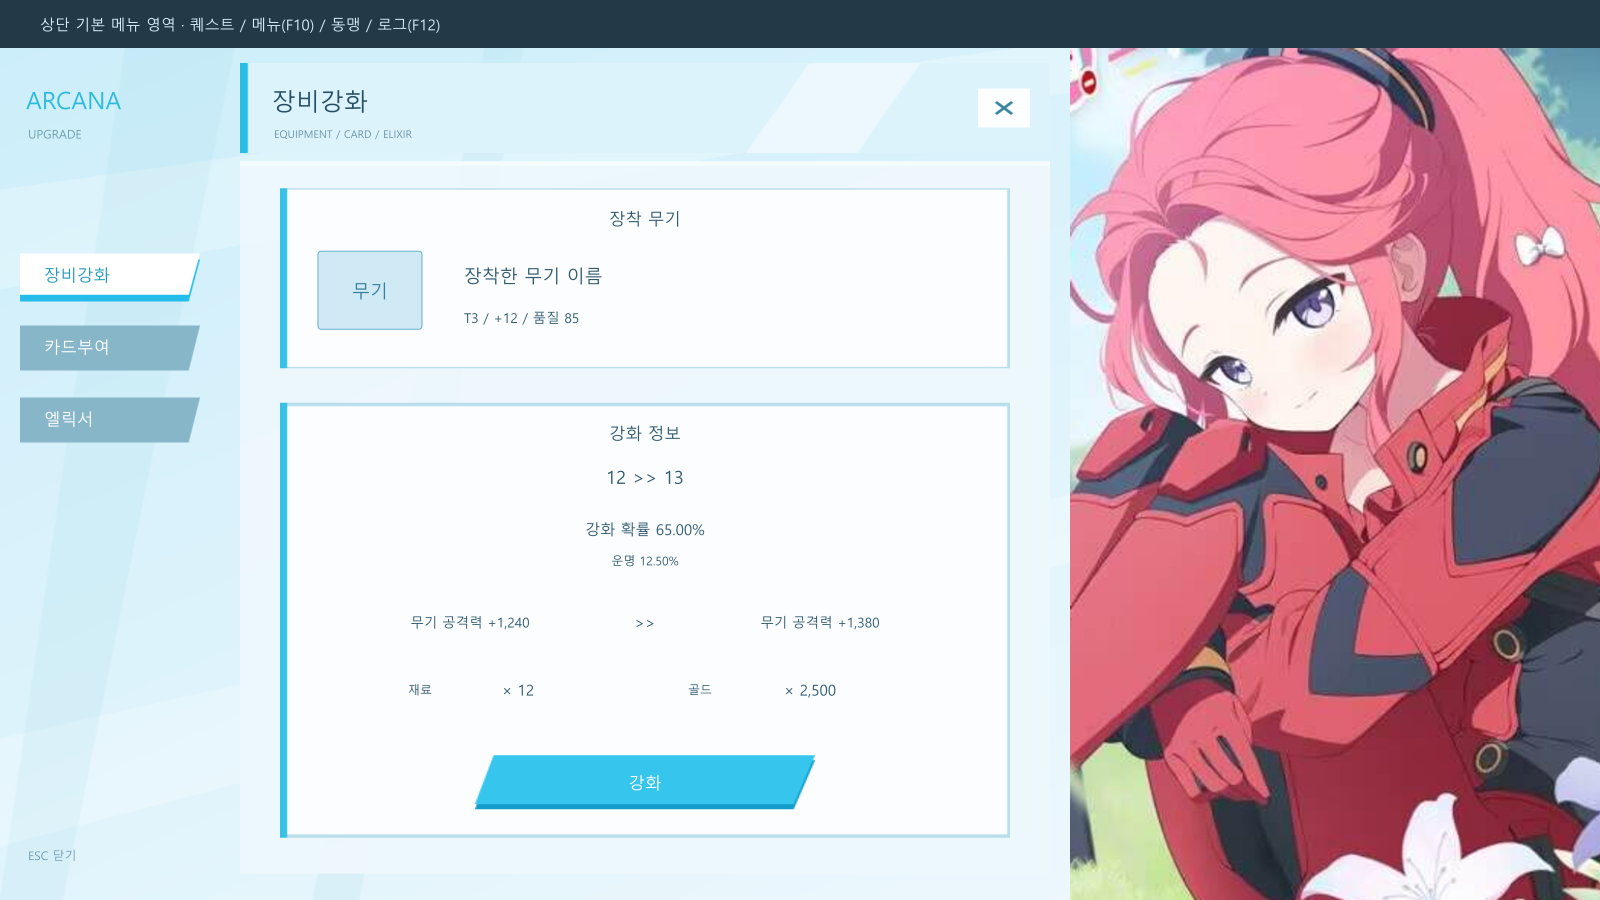
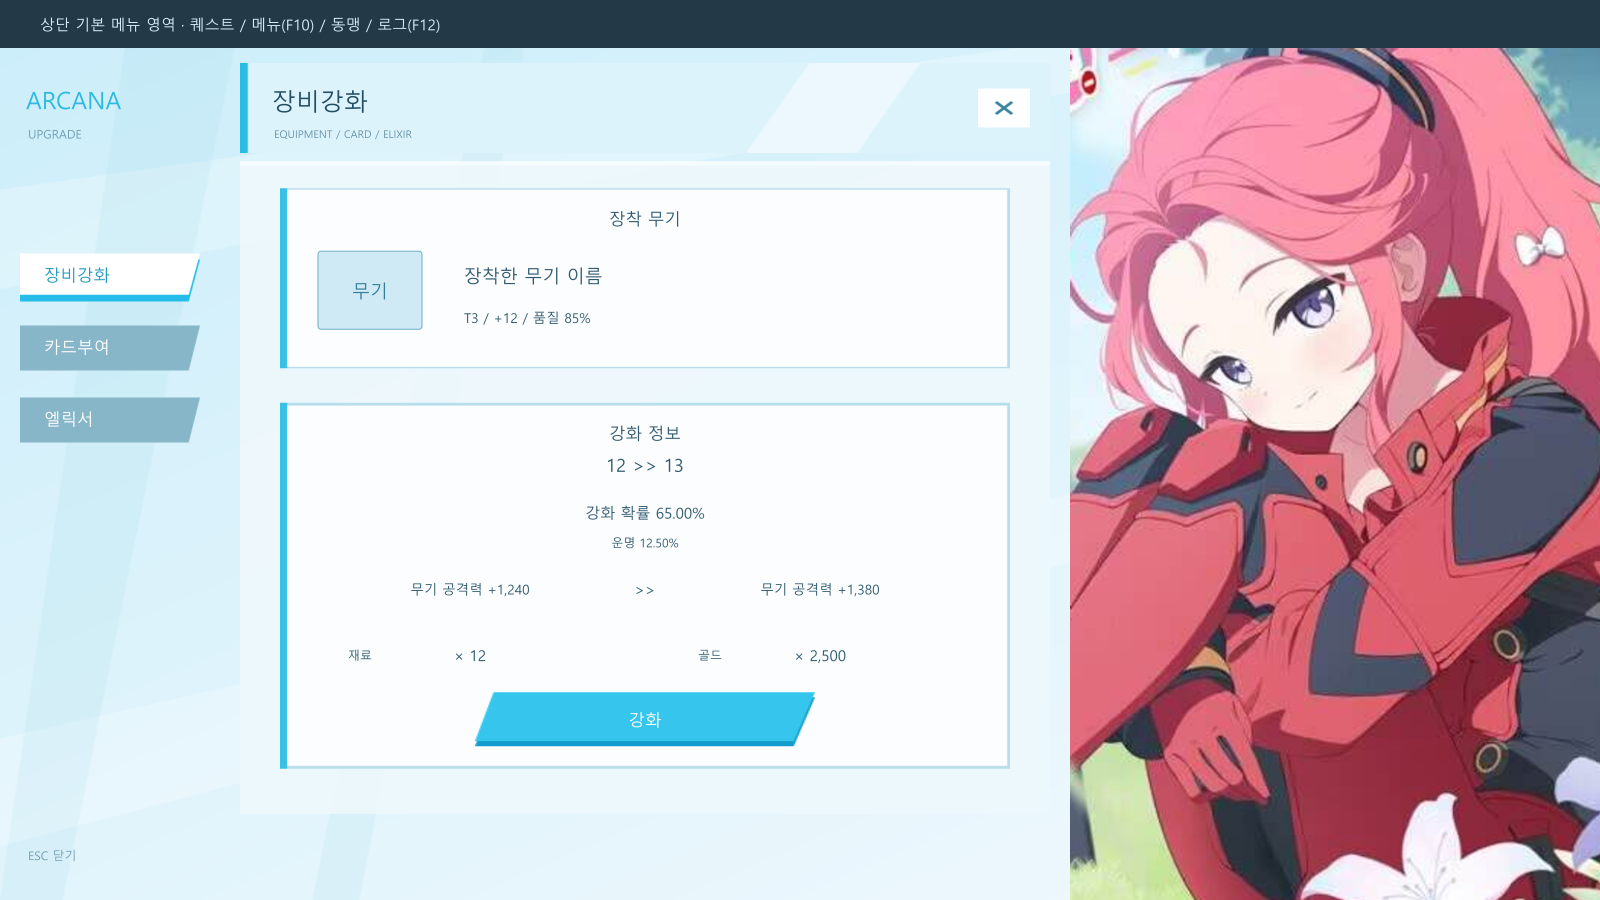
강화 계승 정보와 재료 안내 및 중앙 간격 개선

diff --git a/md/upgrade-ui.md b/md/upgrade-ui.md
@@ -8,6 +8,18 @@
 
 미리보기의 무기·재료 표시는 설명용이며 수치는 예시입니다. 실제 Warcraft III 실행 화면이 아닙니다. 게임에서는 기존 아이템 아이콘과 실시간 수치를 사용합니다.
 
+## 장비 정보와 간격 개선
+
+계승 전후 아이콘 아래에 현재/계승 후, 아이템 이름, 티어와 강화 단계를 표시합니다. 이름과 티어는 기존 계승 대상 아이템에서 읽으며 계승 후 강화 단계는 기존 처리와 같은 +0입니다. 아이템 이름의 등급 색상 뒤에는 짙은 글자색을 다시 적용해 티어가 흰 배경에 묻히지 않도록 했습니다.
+
+무료 계승에서는 빈 재료 아이콘과 x 0 대신 `재료 소모 없음`을 표시합니다. 일반 강화도 필요한 재료 또는 골드가 0이면 해당 아이콘을 숨기고 소모 없음 안내를 표시합니다. 재료가 필요한 단계로 바뀌면 아이콘과 수량을 다시 표시하며, 계승 재료 아이콘은 실제 소모 처리의 티어별 재료와 맞춥니다. 상단 품질은 툴팁과 동일하게 내부 품질 단계 × 5의 백분율로 표시합니다.
+
+중앙 정보 패널 높이를 0.290에서 0.244로 줄이고 실행 버튼을 0.042만큼 위로 옮겼습니다. 신규 텍스처 가져오기는 필요하지 않습니다. 이미 이전 강화 UI를 적용한 맵은 `UI/UI_Enchant.j`를 반영하고 맵을 저장·컴파일한 뒤 지도 시험을 새로 시작합니다.
+
+![무료 계승의 정적 배치 미리보기](../assets/upgrade/preview-inherit.png)
+
+이 개선은 정적 코드 비교와 JassHelper/PJass 컴파일을 확인했으며, 강화·무료 계승의 정적 미리보기를 검토했습니다. 실제 게임에서는 무기 없음, 무료 계승, 유료 계승, 재료/골드가 0인 강화, 일반 강화, 최대 단계 및 탭 재진입을 확인해야 합니다. 게임 실행과 수정 후 화면 검증은 사용자가 진행합니다.
+
 ## 적용
 
 1. PR의 스크립트 파일을 모두 같은 상대 경로에 반영합니다. `UI_Upgrade.j`와 `UI_Enchant.j`만 복사하면 공통 UI 숨김이 적용되지 않습니다. `Import.j`에는 이미 이 라이브러리들의 import가 있으므로 추가 라이브러리 등록은 필요 없습니다.
